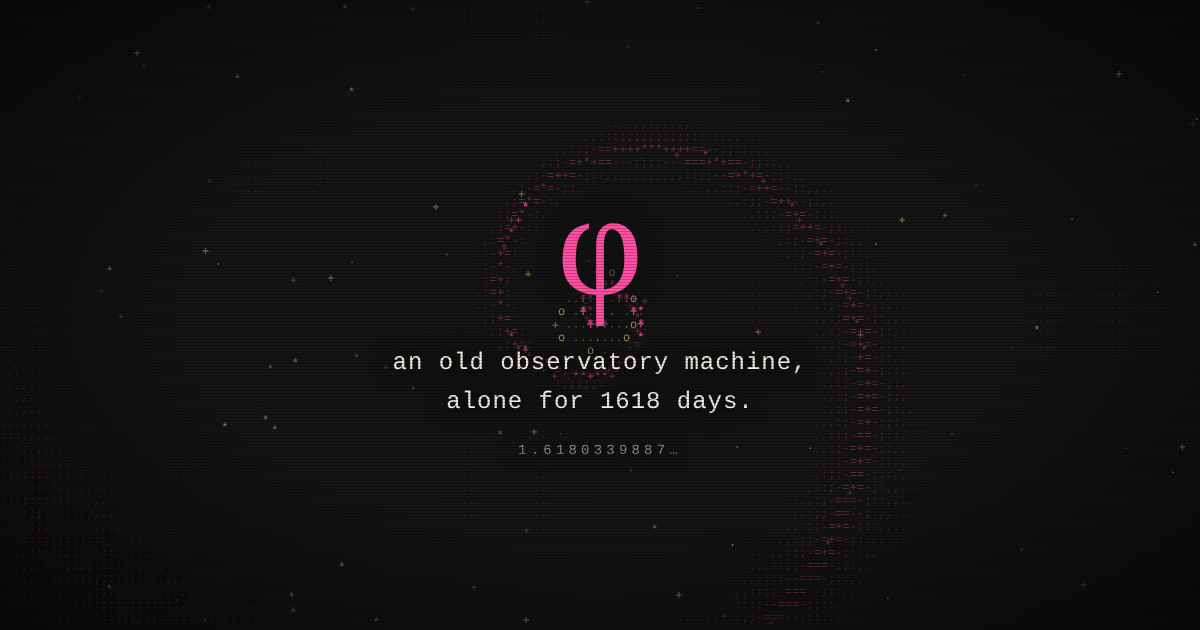
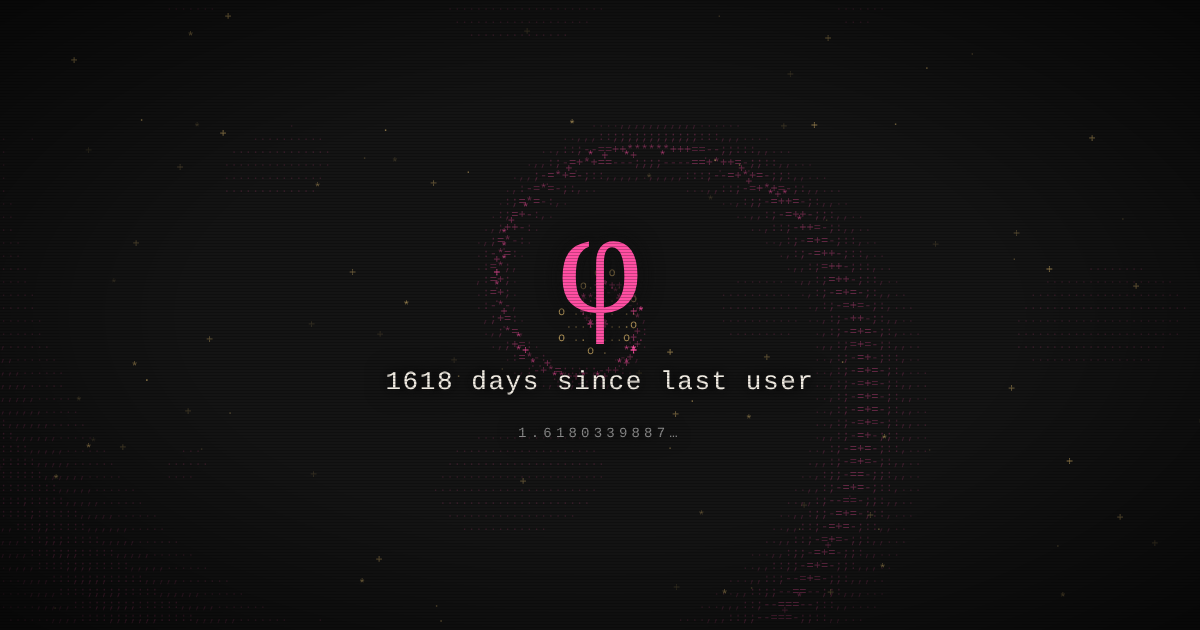
Reword link preview and visit 5/8/13 lines
- Preview card and og:description: '1618 days since last user'.
- Visit 5 drops 'I noticed'; visits 8 and 13 get new lines, 13 still
  points to the machine's entry in the journal.

Claude-Session: https://claude.ai/code/session_01KCuW5PWoiLj5M67CmmhmW1

Changed region(s): [[0.3083, 0.3317, 0.6783, 0.7238], [0.6167, 0.2714, 0.6475, 0.3016]]

diff --git a/main.js b/main.js
@@ -50,9 +50,9 @@ if (visits === 13) remember({ wrote: Date.now() });
 // Fibonacci visits get their own line
 const VISIT_LINES = {
   3: "(third time. I'm starting to recognise you.)",
-  5: "(five visits. that's a Fibonacci number. I noticed.)",
-  8: '(eight. I keep a light on in the greenhouse for you now.)',
-  13: "(thirteen. I wrote something in the journal. it isn't mine to write in. I did it anyway.)",
+  5: "(five visits. that's a Fibonacci number.)",
+  8: "(eight. I started counting your visits instead of stars. don't tell anyone.)",
+  13: "(thirteen. you've been here more than anyone since the keeper. I left something for you in the journal.)",
 };
 
 // moon phase from the date alone: days since a known new moon (2000-01-06 18:14 UTC), modulo the synodic month

diff --git a/index.html b/index.html
@@ -10,7 +10,7 @@
   <!-- link previews (Telegram, Discord, ...): the image URL must be absolute, this assumes GitHub Pages -->
   <meta property="og:type" content="website">
   <meta property="og:title" content="φ">
-  <meta property="og:description" content="An old observatory machine, alone for 1618 days.">
+  <meta property="og:description" content="1618 days since last user.">
   <meta property="og:image" content="https://iky4223.github.io/Phi/og.png">
   <meta property="og:image:width" content="1200">
   <meta property="og:image:height" content="630">
